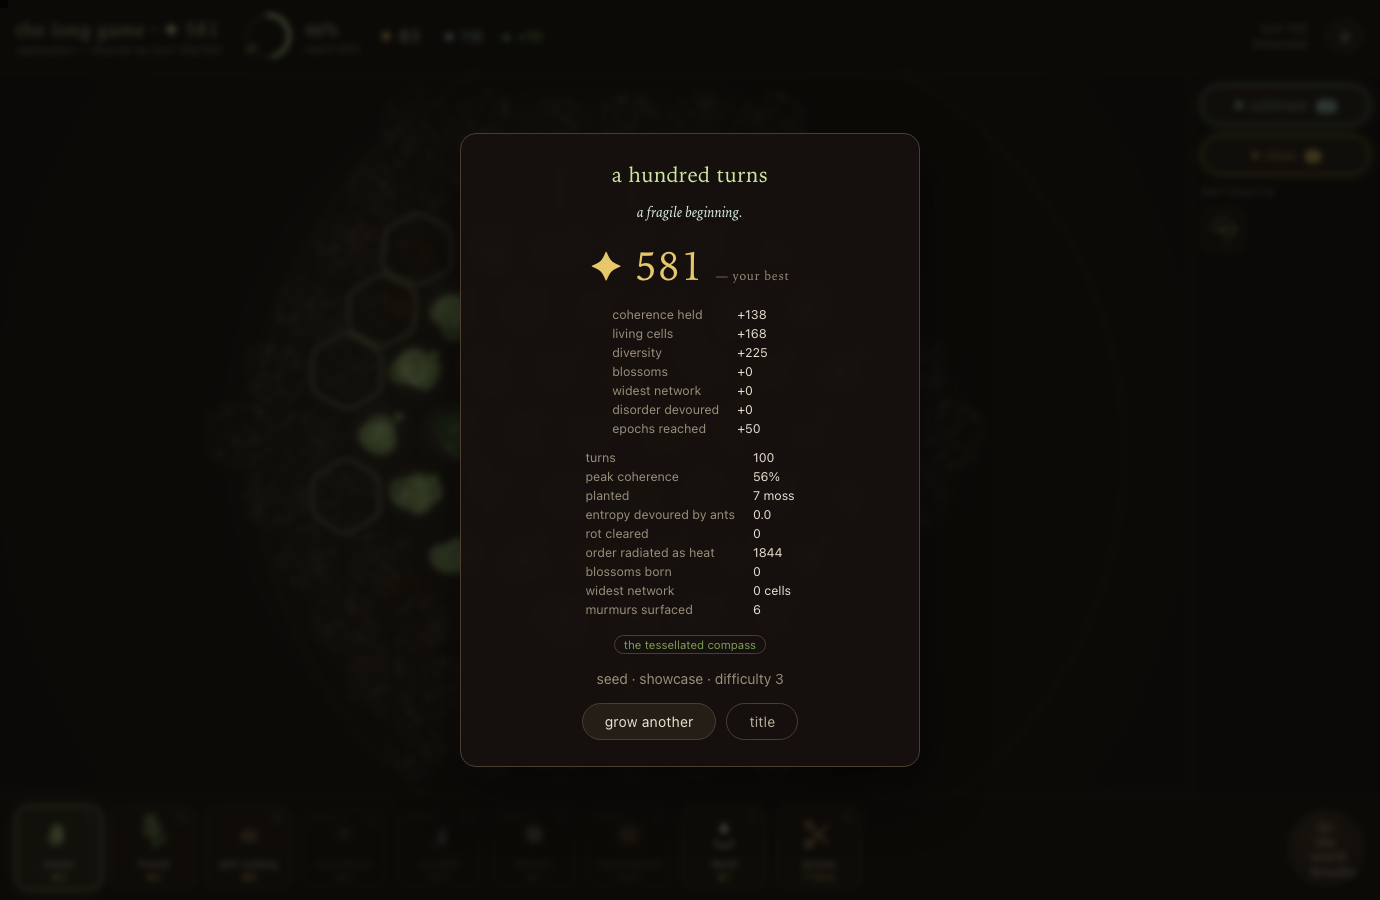
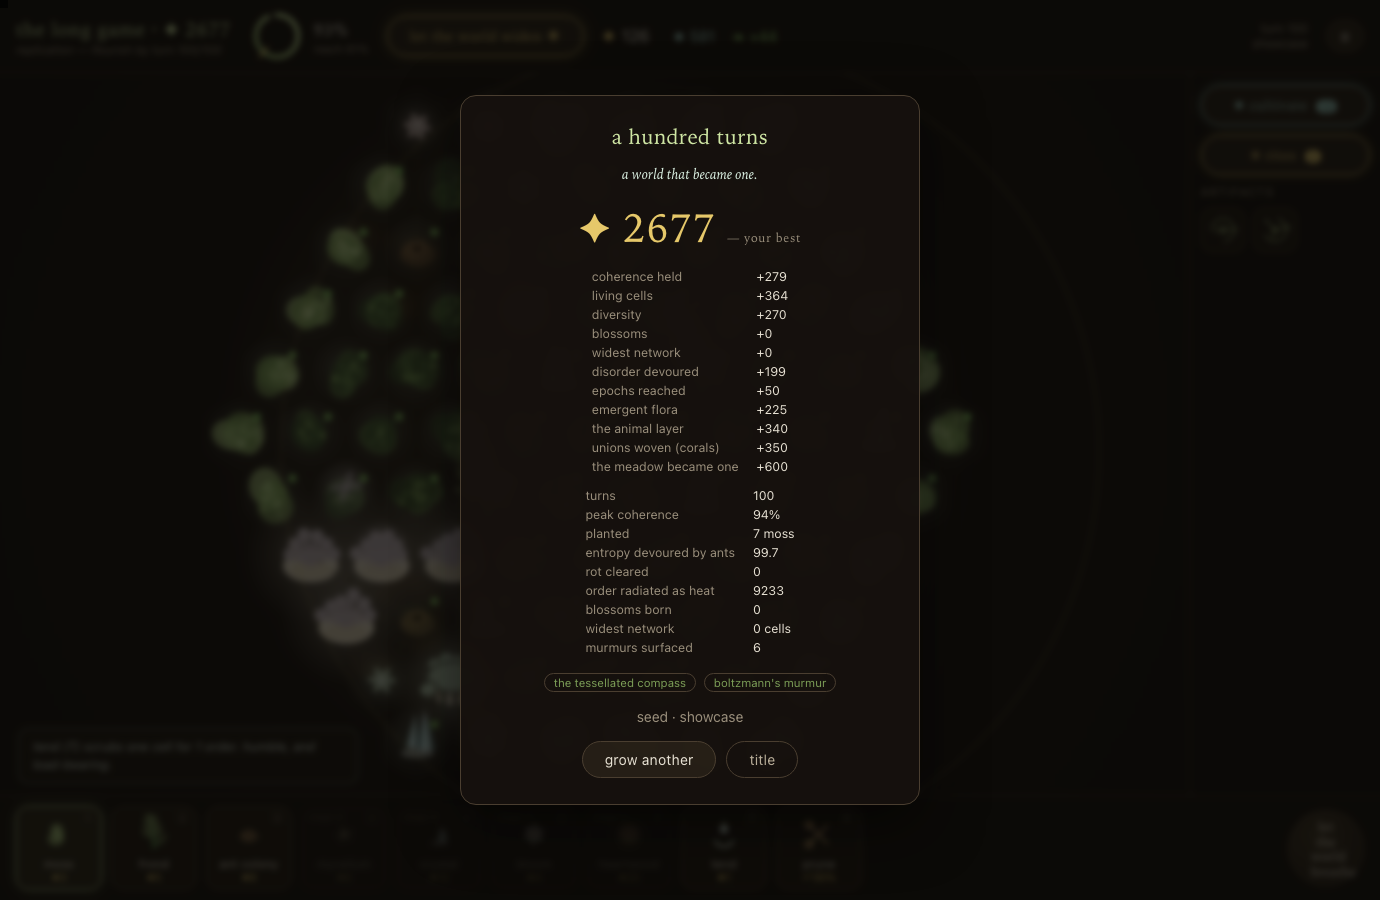
flourishing = cooperation: realign the long game's reward with its deepest theme
The long game is "flourish by turn 100," and its score called "megafauna — the
pinnacle" and rewarded fauna COUNT. But the food web's most beautiful state — the
cooperative climax, the meadow becoming one — SHEDS the combative fauna (grazers
become corals, the apex starves). Corals are flora, uncounted in the "pinnacle."
So a meadow that became ONE could score LOWER than a teeming, combative,
grazer-heavy one. The player's goal rewarded the opposite of the game's own
deepest theme. A genuine misalignment, hiding in plain sight under a comment that
called the wrong thing the pinnacle.

Realigned, so the goal points where the wonder is:
- unions woven (corals) × 70 — symbiogenesis, the cooperative pinnacle
- the meadow became one + 600 — the summit
- and reaching oneness earns the summit GRADE, "a world that became one" (above
  "a flourishing world"), regardless of raw score.

Measured: a meadow that cooperated scores ~+1000 over the same world forced
combative (✦2333–2603 vs ✦1376–1483) — and the cooperative bonuses (unions +
oneness ≈ 950) now exceed the fauna rewards (~400), so cooperation wins on both
the grade AND the number. The ending breakdown shows it line by line; the summit
ending reads "a world that became one" (?shot=longend).

Verified: harness 47 PASS / 0 FAIL, base garden 24/24 (the score change only adds
to the long game), deterministic.

Claude-Session: https://claude.ai/code/session_01LZSpCKYBBptBLYCqnSGnh2

diff --git a/loophole/js/core.js b/loophole/js/core.js
@@ -1127,6 +1127,7 @@
     flourishScore() {
       let live = 0; const kinds = new Set(), floraSp = new Set();
       for (const c of this.cells.values()) if (c.pat) { live++; kinds.add(c.pat.t); if (c.pat.t === 'flora') floraSp.add(c.pat.sp); }
+      let coralSp = 0; for (const sp of this.species.values()) if (sp.compound) coralSp++;
       const s = this.stats;
       return Math.max(0, Math.round(
         this.coherence() * 300 +
@@ -1137,9 +1138,12 @@
         (s.eaten || 0) * 2 +
         (this.stage - 1) * 50 +
         floraSp.size * 25 +                               /* the diversity of emergent flora */
-        this.fauna.length * 30 + this.faunaSpecies.size * 40)); /* megafauna — the pinnacle of a flourishing world */
+        this.fauna.length * 30 + this.faunaSpecies.size * 40 + /* a living animal layer */
+        coralSp * 70 +                                    /* the UNIONS — symbiogenesis, the cooperative pinnacle (a flourishing world is one that COOPERATES, not one that merely teems) */
+        (this.firedOcc['oneness'] ? 600 : 0)));           /* the meadow became ONE — the summit */
     }
     flourishGrade(score) {
+      if (this.firedOcc['oneness']) return 'a world that became one'; /* the summit — the meadow recognised as a single living thing, above any mere score */
       if (score >= 2800) return 'a flourishing world';
       if (score >= 2000) return 'a thriving garden';
       if (score >= 1300) return 'a living garden';
@@ -1149,8 +1153,9 @@
     flourishBreakdown() {
       let live = 0; const kinds = new Set(), floraSp = new Set();
       for (const c of this.cells.values()) if (c.pat) { live++; kinds.add(c.pat.t); if (c.pat.t === 'flora') floraSp.add(c.pat.sp); }
+      let coralSp = 0; for (const sp of this.species.values()) if (sp.compound) coralSp++;
       const s = this.stats;
-      return [
+      const rows = [
         ['coherence held', Math.round(this.coherence() * 300)],
         ['living cells', live * 4],
         ['diversity', kinds.size * 45],
@@ -1159,8 +1164,11 @@
         ['disorder devoured', Math.round((s.eaten || 0) * 2)],
         ['epochs reached', (this.stage - 1) * 50],
         ['emergent flora', floraSp.size * 25],
-        ['megafauna sustained', this.fauna.length * 30 + this.faunaSpecies.size * 40],
+        ['the animal layer', this.fauna.length * 30 + this.faunaSpecies.size * 40],
       ];
+      if (coralSp) rows.push(['unions woven (corals)', coralSp * 70]);
+      if (this.firedOcc['oneness']) rows.push(['the meadow became one', 600]);
+      return rows;
     }
 
     /* ── the turn pipeline ── */

diff --git a/loophole/js/ui.js b/loophole/js/ui.js
@@ -1605,7 +1605,14 @@
       for (let i = 0; i < 55 && !game.over; i++) { game.order += 12; game.endTurn(); }
       updateHUD(); pushOverlay(gardenStateOverlay('metab'));
     }
-    if (kind === 'longend') { game.mode = 'longgame'; game.turn = 100; onLongEnd(game.flourishScore(), game.flourishGrade(game.flourishScore())); }
+    if (kind === 'longend') { /* grow a real cooperative meadow so the ending celebrates what it became */
+      game.mode = 'longgame';
+      const hd = c => (Math.abs(c.q) + Math.abs(c.r) + Math.abs(c.q + c.r)) / 2;
+      [...game.cells.values()].filter(c => hd(c) <= 8).sort((c, d) => (c.q - d.q) || (c.r - d.r)).forEach((c, i) => { if (i % 7 === 0) c.pat = game._mkPat('moss'); else if (i % 7 === 3) c.pat = game._mkPat('ant'); else if (i % 13 === 5) c.pat = game._mkPat('crys'); });
+      game._recompute();
+      for (let i = 0; i < 120 && !game.over; i++) { game.over = false; game.turn = Math.min(game.turn, 90); game.order += 12; game.endTurn(); }
+      game.firedOcc.oneness = true; /* stage the SUMMIT ending for the reference shot (the meadow grew genuinely cooperative; this shows what "becoming one" looks like at the end) */
+      game.turn = 100; onLongEnd(game.flourishScore(), game.flourishGrade(game.flourishScore())); }
     if (kind === 'kit') {
       /* a developed build: a few cultivars + relics so the kit + compounding fill out */
       game.insight = 8; game.legendDiscount = 5;

diff --git a/docs/superpowers/specs/2026-06-18-loophole-v04-as-built.md b/docs/superpowers/specs/2026-06-18-loophole-v04-as-built.md
@@ -137,6 +137,13 @@ The megafauna chain becomes a **web**, leading (per Margulis) with cooperation, 
   communities of bacteria… a pointillist landscape made of tiny living beings." Measured: fires 5/8
   meadows ~turn 52–106, EARNED (never young/combative), deterministic. The food web's natural attractor
   *is* the holobiont — the two halves of the game ("entropy, consciousness") were never two. `?shot=oneness`.
+- **Flourishing = cooperation** (`flourishScore`/`flourishBreakdown`/`flourishGrade`): the long game's reward
+  once called "megafauna the pinnacle" and rewarded fauna *count* — but the cooperative climax SHEDS the
+  combative layer (grazers → corals), so a meadow that became *one* could score *lower* than a teeming
+  combative one: the goal rewarded the opposite of the game's deepest theme. Realigned: **unions woven
+  (corals) ×70** and **the meadow became one +600** are now the top-rewarded components, and a meadow that
+  reaches oneness earns the summit grade **"a world that became one"** (above "a flourishing world").
+  Measured: a cooperative meadow scores ~+1000 over the same world combative; ✦2677 vs ✦1450. `?shot=longend`.
 
 ## 7. Open items (next)
 - **Coral / fauna visibility at full-board zoom** — corals (like beasts) read small on a large board;
